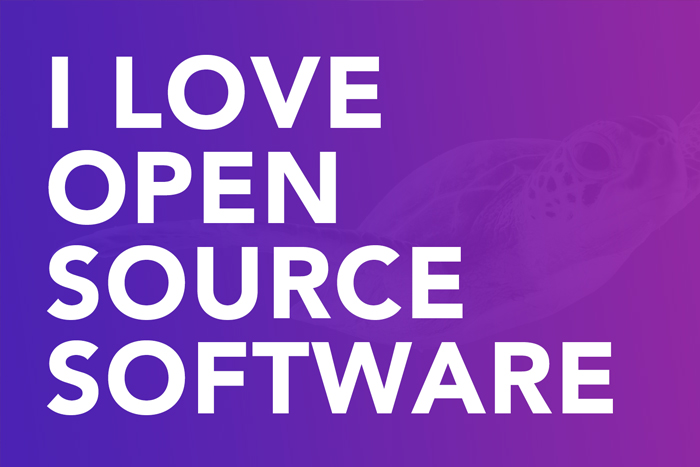
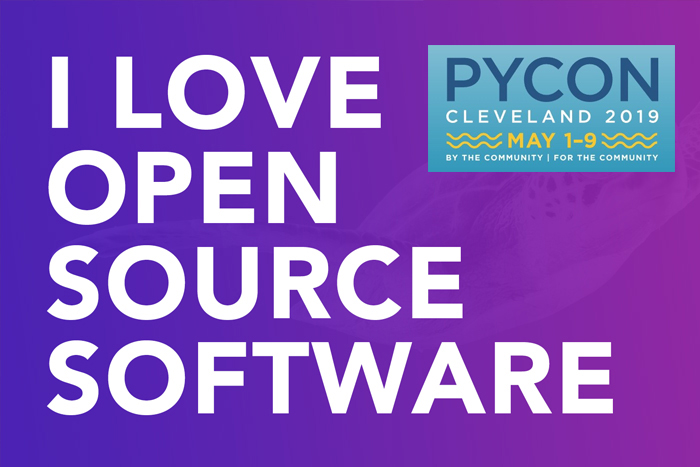
new

Changed region(s): [[0.6, 0.0899, 0.99, 0.3897]]

diff --git a/oss-post.html b/oss-post.html
@@ -1,0 +1,269 @@
+<!DOCTYPE html>
+<html lang="en">
+
+<head>
+	<meta charset="utf-8">
+	<meta http-equiv="X-UA-Compatible" content="IE=edge">
+	<meta name="viewport" content="width=device-width, initial-scale=1">
+	<!-- The above 3 meta tags *must* come first in the head; any other head content must come *after* these tags -->
+
+	<title>Deep Datta</title>
+
+	<!-- Google font -->
+	<link href="https://fonts.googleapis.com/css?family=Montserrat:400,700%7CMuli:400,700" rel="stylesheet">
+
+	<!-- Bootstrap -->
+	<link type="text/css" rel="stylesheet" href="css/bootstrap.min.css" />
+
+	<!-- Font Awesome Icon -->
+	<link rel="stylesheet" href="css/font-awesome.min.css">
+
+	<!-- Custom stlylesheet -->
+	<link type="text/css" rel="stylesheet" href="css/style.css" />
+
+	<!-- HTML5 shim and Respond.js for IE8 support of HTML5 elements and media queries -->
+	<!-- WARNING: Respond.js doesn't work if you view the page via file:// -->
+	<!--[if lt IE 9]>
+		  <script src="https://oss.maxcdn.com/html5shiv/3.7.3/html5shiv.min.js"></script>
+		  <script src="https://oss.maxcdn.com/respond/1.4.2/respond.min.js"></script>
+		<![endif]-->
+
+</head>
+
+<body>
+	<!-- HEADER -->
+	<header id="header">
+		<!-- NAV -->
+		<div id="nav">
+			<!-- Top Nav -->
+			<div id="nav-top">
+				<div class="container">
+					<!-- social -->
+					<ul class="nav-social" style="margin-left:20px;">
+					<!-- hide social 	<li><a href="#"><i class="fa fa-facebook"></i></a></li>
+						<li><a href="#"><i class="fa fa-twitter"></i></a></li> -->
+						<li><a href="https://www.instagram.com/dattabird/"><i class="fa fa-instagram"></i></a></li> 
+						<li><a href="https://www.linkedin.com/in/shantanudeepdatta/"><i class="fa fa-linkedin"></i></a></li>
+					</ul>
+					<!-- /social -->
+
+					<!-- logo 
+					<div class="nav-logo">
+						<a href="index.html" class="logo"><img src="./img/logo.png" alt=""></a>
+					</div>
+						/logo -->
+
+					<!-- search & aside toggle -->
+					<div class="nav-btns">
+						<button class="aside-btn"><i class="fa fa-bars"></i></button>
+					</div>
+					<!-- /search & aside toggle -->
+				</div>
+			</div>
+			<!-- /Top Nav -->
+
+			<!-- Aside Nav -->
+			<div id="nav-aside">
+				<ul class="nav-aside-menu">
+					<li><a href="index.html">Home</a></li>
+					<li class="has-dropdown"><a>About Me</a>
+						<ul class="dropdown">
+							<li><a href="#">Lifestyle</a></li>
+							<li><a href="#">Education</a></li>
+							<li><a href="#">Career</a></li>
+							<li><a href="#">Travel</a></li>
+							<li><a href="#">Family</a></li>
+						</ul>
+					</li>
+					<li><a href="about.html">Resume</a></li>
+					<li><a href="mailto:deepdattax@gmail.com">Email Me</a></li>
+				</ul>
+				<button class="nav-close nav-aside-close"><span></span></button>
+			</div>
+			<!-- /Aside Nav -->
+		</div>
+		<!-- /NAV -->
+		<!-- PAGE HEADER -->
+		<div id="post-header" class="page-header">
+			<div class="page-header-bg" style="background-image: url('./img/header-oss.jpg'); width:100%;" data-stellar-background-ratio="0.5"></div>
+			<div class="container">
+				<div class="row">
+					<div class="col-md-10">
+						<div class="post-category">
+							<a href="category.html">Technology</a>
+						</div>
+						<h1>Getting Involved in Open Source</h1>
+						<ul class="post-meta">
+							<li><a href="author.html">Deep Datta</a></li>
+							<li>14 May 2018</li>
+						</ul>
+					</div>
+				</div>
+			</div>
+		</div>
+		<!-- /PAGE HEADER -->
+	</header>
+	<!-- /HEADER -->
+
+	<!-- section -->
+	<div class="section">
+		<!-- container -->
+		<div class="container">
+			<!-- row -->
+			<div class="row">
+				<div class="col-md-8">
+
+					<!-- post content -->
+					<div class="section-row">
+						<h3>PyCon 2019 in Cleveland</h3>
+
+<p>Alright folks - I’m back from my whirlwind trip to Cleveland, Ohio where I just participated in my very first PyCon event. As an avid fan of open source and a manager of Indeed’s open source program, it was really special to be around so many Python developers. This included some of Python’s core founders and contributors and the foundation that supports them.</p>
+
+<p>Python Software Foundation (PSF) is the primary organization that coordinates efforts in the Python community, and they host PyCon events in cities around the world. This event included 2 days of tutorials, and multiple developer sprints right before and right after the main conference hall lectures and workshops you would expect.</p>
+
+<p>There was a lot to learn. Here’s just some of what I was able to receive.</p>
+
+<img src="img/cleveland.jpg" alt="Cleveland, Ohio" style="width:100%;" />
+<p style="font-size:12px; color:#aaa;"><i>Cleveland was a beautifully organized city with great museums and a really walkable downtown.</i></p>
+
+<h2>Learnings from the Python Community</h2>
+
+<h3>Beeware</h3>
+
+<p>Dan Yeuw is working with a team to build an ambitious GUI-application that runs native apps using Python. He explained that he wants to always be able to code 1 app, and then put that app on all his devices. The GUI-widgets that currently exist are usually confusing and are wrapped in C or C++ API’s. BeeWare’s goal is to create apps using “Pythonic code”. The Beeware team is building a set of software libraries and tools to build native mobile applications. Learn more at <a href="https://beeware.org/">https://beeware.org/</a></p>
+
+<img src="img/pyconi.jpg" alt="PyCon 2019" style="width:100%;" />
+<p style="font-size:12px; color:#aaa;"><i>Main characters of Mohenjo Daro</i></p>
+
+<h3>Testing in Data Science</h3>
+
+<p>Jes Ford explained the multifaceted aspects of being a Data Scientist and the methods and considerations she must juggle when working with her stakeholders. Her lecture provided concrete examples of how testing plays a role in her work. Jes said, “I’m not a software engineer” - I found this comforting - that you can still be a powerful Python user without considering yourself a full software engineer. Jes explained that her major aim is always to balance getting results to stakeholders as quickly as possible with developing accurate tools that can produce testing results even more quickly.</p>
+
+<p>She also discussed the difficulties of working with legacy code in data science. There’s always code that is developed in different stages, and sometimes what was just exploratory might actually end up in the final release. Jes explained how she’s implemented testing from the earliest stages, so if that code is used in the future then accuracy will already be built-in. For example, the pandas dataframes has built-in methods for testing like duplicated(). It also has a lot of other useful built-in tools for testing, including the one she uses most: assert_frame_equal().</p>
+
+<img src="img/python.jpg" alt="Python community people" style="width:100%;" />
+<p style="font-size:12px; color:#aaa;"><i>The Python Software Foundation (PSF) hosts PyCon every year. I found them to be the nicest most approachable community in tech.</i></span>
+
+<h3>A New Era for Python Governance</h3>
+
+<p>Shauna Gordon-McKeon is a python programmer with a background in social psychology, community-building, and governance. She explained that The Python Software Foundation and the Python Language are two distinct groups with two distinct governance communities. The PSF manages the intellectual property of Python and a lot of community building and community management (like conferences). The Python Language team is focused on developing the code of Python. The PSF is a member-elected 501c3 non-profit. The current Board Chair is Naomi Ceder and the next election takes place in June 2019. One specifically interesting part of her talk was learning about the Python Enhancement Proposals (PEPs) including PEP-8: The Style Guide for Python Code.</p>
+
+<p>On a related note, the current Chair of The Python Software Foundation - Naomi Ceder - was floating around the event. I noticed her several times just talking to random groups of people. It was cool to see such a prominent member of the Python Software Foundation casually hanging out. This further solidified my love of the open source community. The Python Software Foundation really spends a lot of time celebrating the community. You should checkout the Community Awards and consider helping out on the Fundraising Campaign.</p>
+
+<h3>Education Summit</h3>
+
+<p>The conference also hosted an Education Summit specifically focused on spreading the learning of Python and empowering the educators that do. One particularly enlightening talk was the Neha Gupta and Jessica Jahnke's Building a Community for Girls with Python helping 5th-12th grade girls build self-confidence through Python education.</p>
+
+<h2>Dev Sprints with Outreachy:</h2>
+
+<p>And finally, one of the best parts of the conference was the four-day dev sprints that the conference hosted after the keynotes and speaking engagements ended. I only stayed for 2 days of the sprints, but got to experience a bit of the action and ended up sitting at the Outreachy table.</p>
+
+<p>Outreachy is a remote internship program that supports diversity in free and open source development. Over 1,000 people apply for around 40 internship spots. The Outreachy sprint was hosted to improve their main Django website by making it work better for applicants, interns, and mentors. I was able to get my environment setup and checked out some of the open issues from the sprint. While I personally had trouble contributing a great deal - had my Django development skills been a bit better - I could have helped tremendously that day. Nonetheless, it was really cool to grab lunch with the other volunteers and learn more about their perspective of Python and open source. If you do want to learn more, you can see all the teams that hosted sprints here: https://us.pycon.org/2019/community/sprints/. If you want to get involved in helping Outreachy, here's how to get started.</p>
+
+<h2>Upcoming events and further information</h2>
+
+<p>I'm pretty stoked that Indeed was a gold sponsor for this PyCon event, and I’m so happy to be part of the Indeed Open Source Software team. It’s a great feeling to help our internal community engage directly with the open source community at events like PyCon. You can see a list of more Python events here: https://www.python.org/community/workshops/.</p>
+
+<p>Want to contribute to open source other ways? Consider helping out those maintainers who give their time and effort towards fixing issues and consider donating to a Bug Bounty program.</p>
+
+<blockquote class="blockquote">
+<p>Alright folks - I’m back from my whirlwind trip to Cleveland, Ohio where I just participated in my very first PyCon event. As an avid fan of open source and a manager of Indeed’s open source program, it was really special to be around so many Python developers.</p>
+<footer class="blockquote-footer">Deep Datta</footer>
+					</div>
+					<!-- /post content -->
+
+					<!-- /related post -->
+					<div>
+						<div class="section-title">
+							<h3 class="title">Relevant Links</h3>
+						</div>
+						<div class="row">
+							<!-- post -->
+							<div class="col-md-4">
+								<div class="post post-sm">
+									<a class="post-img" href="https://baahubali.com/"><img src="./img/oss-1.jpg" alt=""></a>
+									<div class="post-body">
+										<div class="post-category">
+											<a href="https://www.python.org/psf-landing/">Python Software Foundation</a>
+										</div>
+									</div>
+								</div>
+							</div>
+							<!-- /post -->
+							<!-- post -->
+							<div class="col-md-4">
+								<div class="post post-sm">
+									<a class="post-img" href="https://www.hollywoodreporter.com/review/mohenjo-daro-film-review-919404"><img src="./img/oss-2.jpg" alt=""></a>
+									<div class="post-body">
+										<div class="post-category">
+											<a href="https://opensource.indeedeng.io/">Open Source at Indeed</a>
+										</div>
+									</div>
+								</div>
+							</div>
+							<!-- /post -->
+							<!-- post -->
+							<div class="col-md-4">
+								<div class="post post-sm">
+									<a class="post-img" href="https://en.wikipedia.org/wiki/Padmaavat"><img src="./img/oss-3.jpg" alt=""></a>
+									<div class="post-body">
+										<div class="post-category">
+											<a href="https://www.rockhall.com/">Cleveland R&R Hall of Fame</a>
+										</div>
+									</div>
+								</div>
+							</div>
+							<!-- /post -->
+						</div>
+					</div>
+					<!-- /related post -->
+					
+				</div>
+				<div class="col-md-4">
+
+					<!-- tags widget -->
+					<div class="aside-widget">
+						<div class="section-title">
+							<h2 class="title">Categories</h2>
+						</div>
+						<div>
+							<button class="new-button">Technology</button>
+							<button class="new-button">Open Source Software</button>
+							<button class="new-button">Python</button>
+						</div>
+						<img src="img/pythonfeatured.jpg" alt="python" style="width:100%; padding-top:10px;">
+						<p style="font-size:12px; color:#aaa;"><i>The Python programming language is easy to understand and extremeley powerful for both backend development and data science / machine learning.</i></span>
+					</div>
+					<!-- /tags widget -->
+
+				</div>
+			</div>
+			<!-- /row -->
+		</div>
+		<!-- /container -->
+	</div>
+	<!-- /SECTION -->
+
+<!-- FOOTER -->
+	<footer id="footer">
+		<!-- container -->
+		<div class="container">
+			<!-- row -->
+			<div class="row">
+				<p style="color:white;">2019<p>
+			</div>
+			<!-- /row -->
+		</div>
+		<!-- /container -->
+	</footer>
+	<!-- /FOOTER -->
+
+	<!-- jQuery Plugins -->
+	<script src="js/jquery.min.js"></script>
+	<script src="js/bootstrap.min.js"></script>
+	<script src="js/jquery.stellar.min.js"></script>
+	<script src="js/main.js"></script>
+
+</body>
+
+</html>

diff --git a/index.html b/index.html
@@ -145,9 +145,11 @@
 							<div class="post post-sm">
 								<h1>Open Source Software</h1>
 
-								<p>I currently work at Indeed.com where I'm helping develop the open source software program. At Indeed, open source technologies are a big part of the digital infrastructure we use to help people get jobs. Free and Open Source Software (FOSS) is at the core of everything we do. The products we build realize significant improvements when we use software that is collaboratively built and maintained by the FOSS Community. By leveraging their talents, we increase our velocity and are able to maintain our infrastructure in union with many of the best developers around the world. This means we help people get jobs faster than we would if we decided to write every piece of software ourselves.</p>
+								<p>I currently work at Indeed.com where I'm helping develop the open source software program. At Indeed, open source technologies are a big part of the digital infrastructure we use to help people get jobs. Free and Open Source Software (FOSS) is at the core of everything we do. The products we build realize significant improvements when we use software that is collaboratively built and maintained by the FOSS Community. By leveraging their talents, we increase our velocity and are able to maintain our infrastructure in union with many of the best developers around the world. This means we help people get jobs faster than we would if we decided to write every piece of software ourselves. </p>
 
-								<a href="#" class="primary-button">Read More</a>
+								<p>In May of 2019, I attended the Python Conference (PyCon) in Cleveland, Ohio. I learned a great deal about the community that manages the software and couldn't be happier to be part of open source.</p>
+
+								<a href="oss-post.html" class="primary-button">Read More</a>
 							</div>
 						</div>
 						<!-- /post -->
